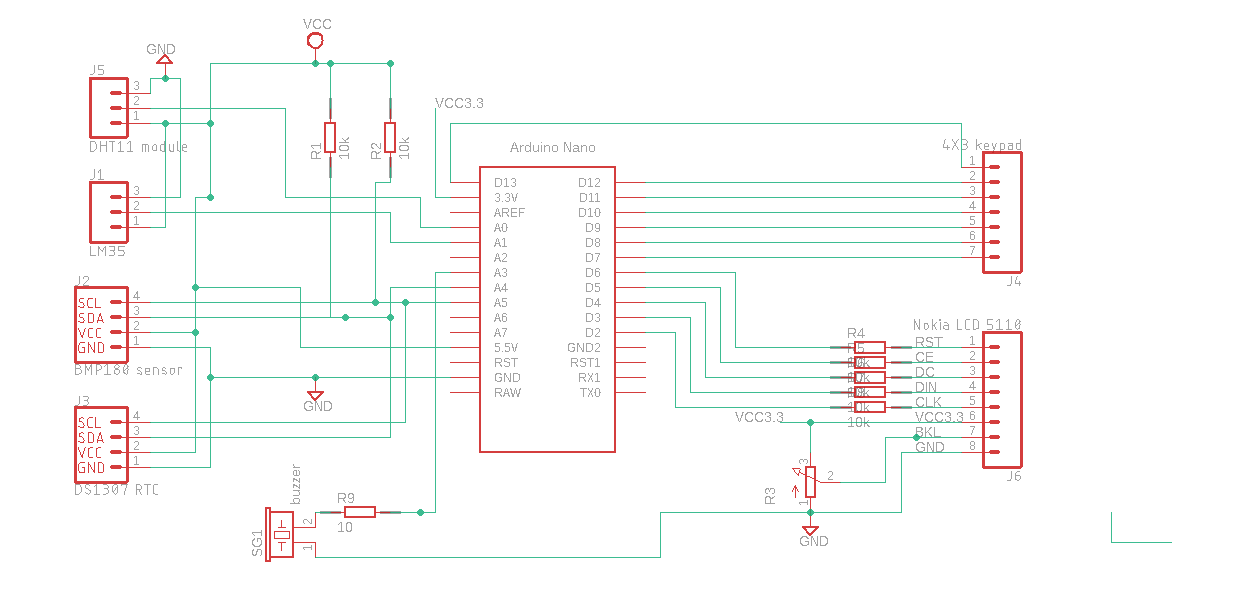
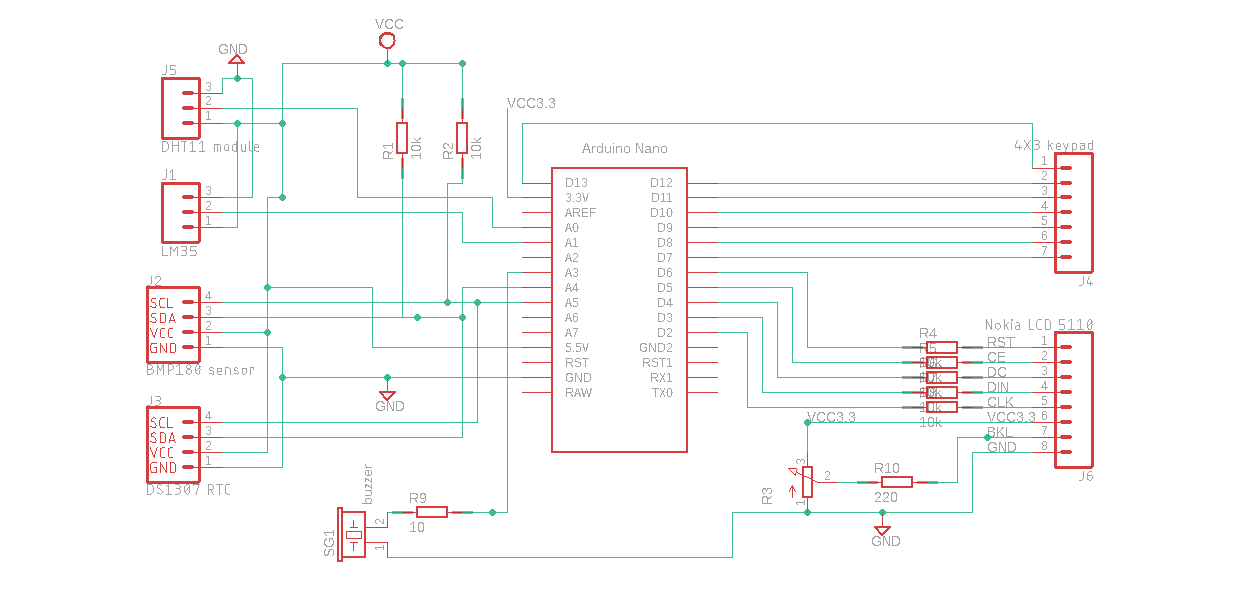
Changing sch from fritz to eagle

diff --git a/README.md b/README.md
@@ -34,7 +34,7 @@ You will need following parts
 >
 >DS 1307 Real Time Clock module (with battery)
 >
->7 * 10K resistors, 1 * 10ohm resistors
+>7*10K , 1*10ohm  , 1*220ohm  resistors
 >
 >LM35 temperature sensor
 >
